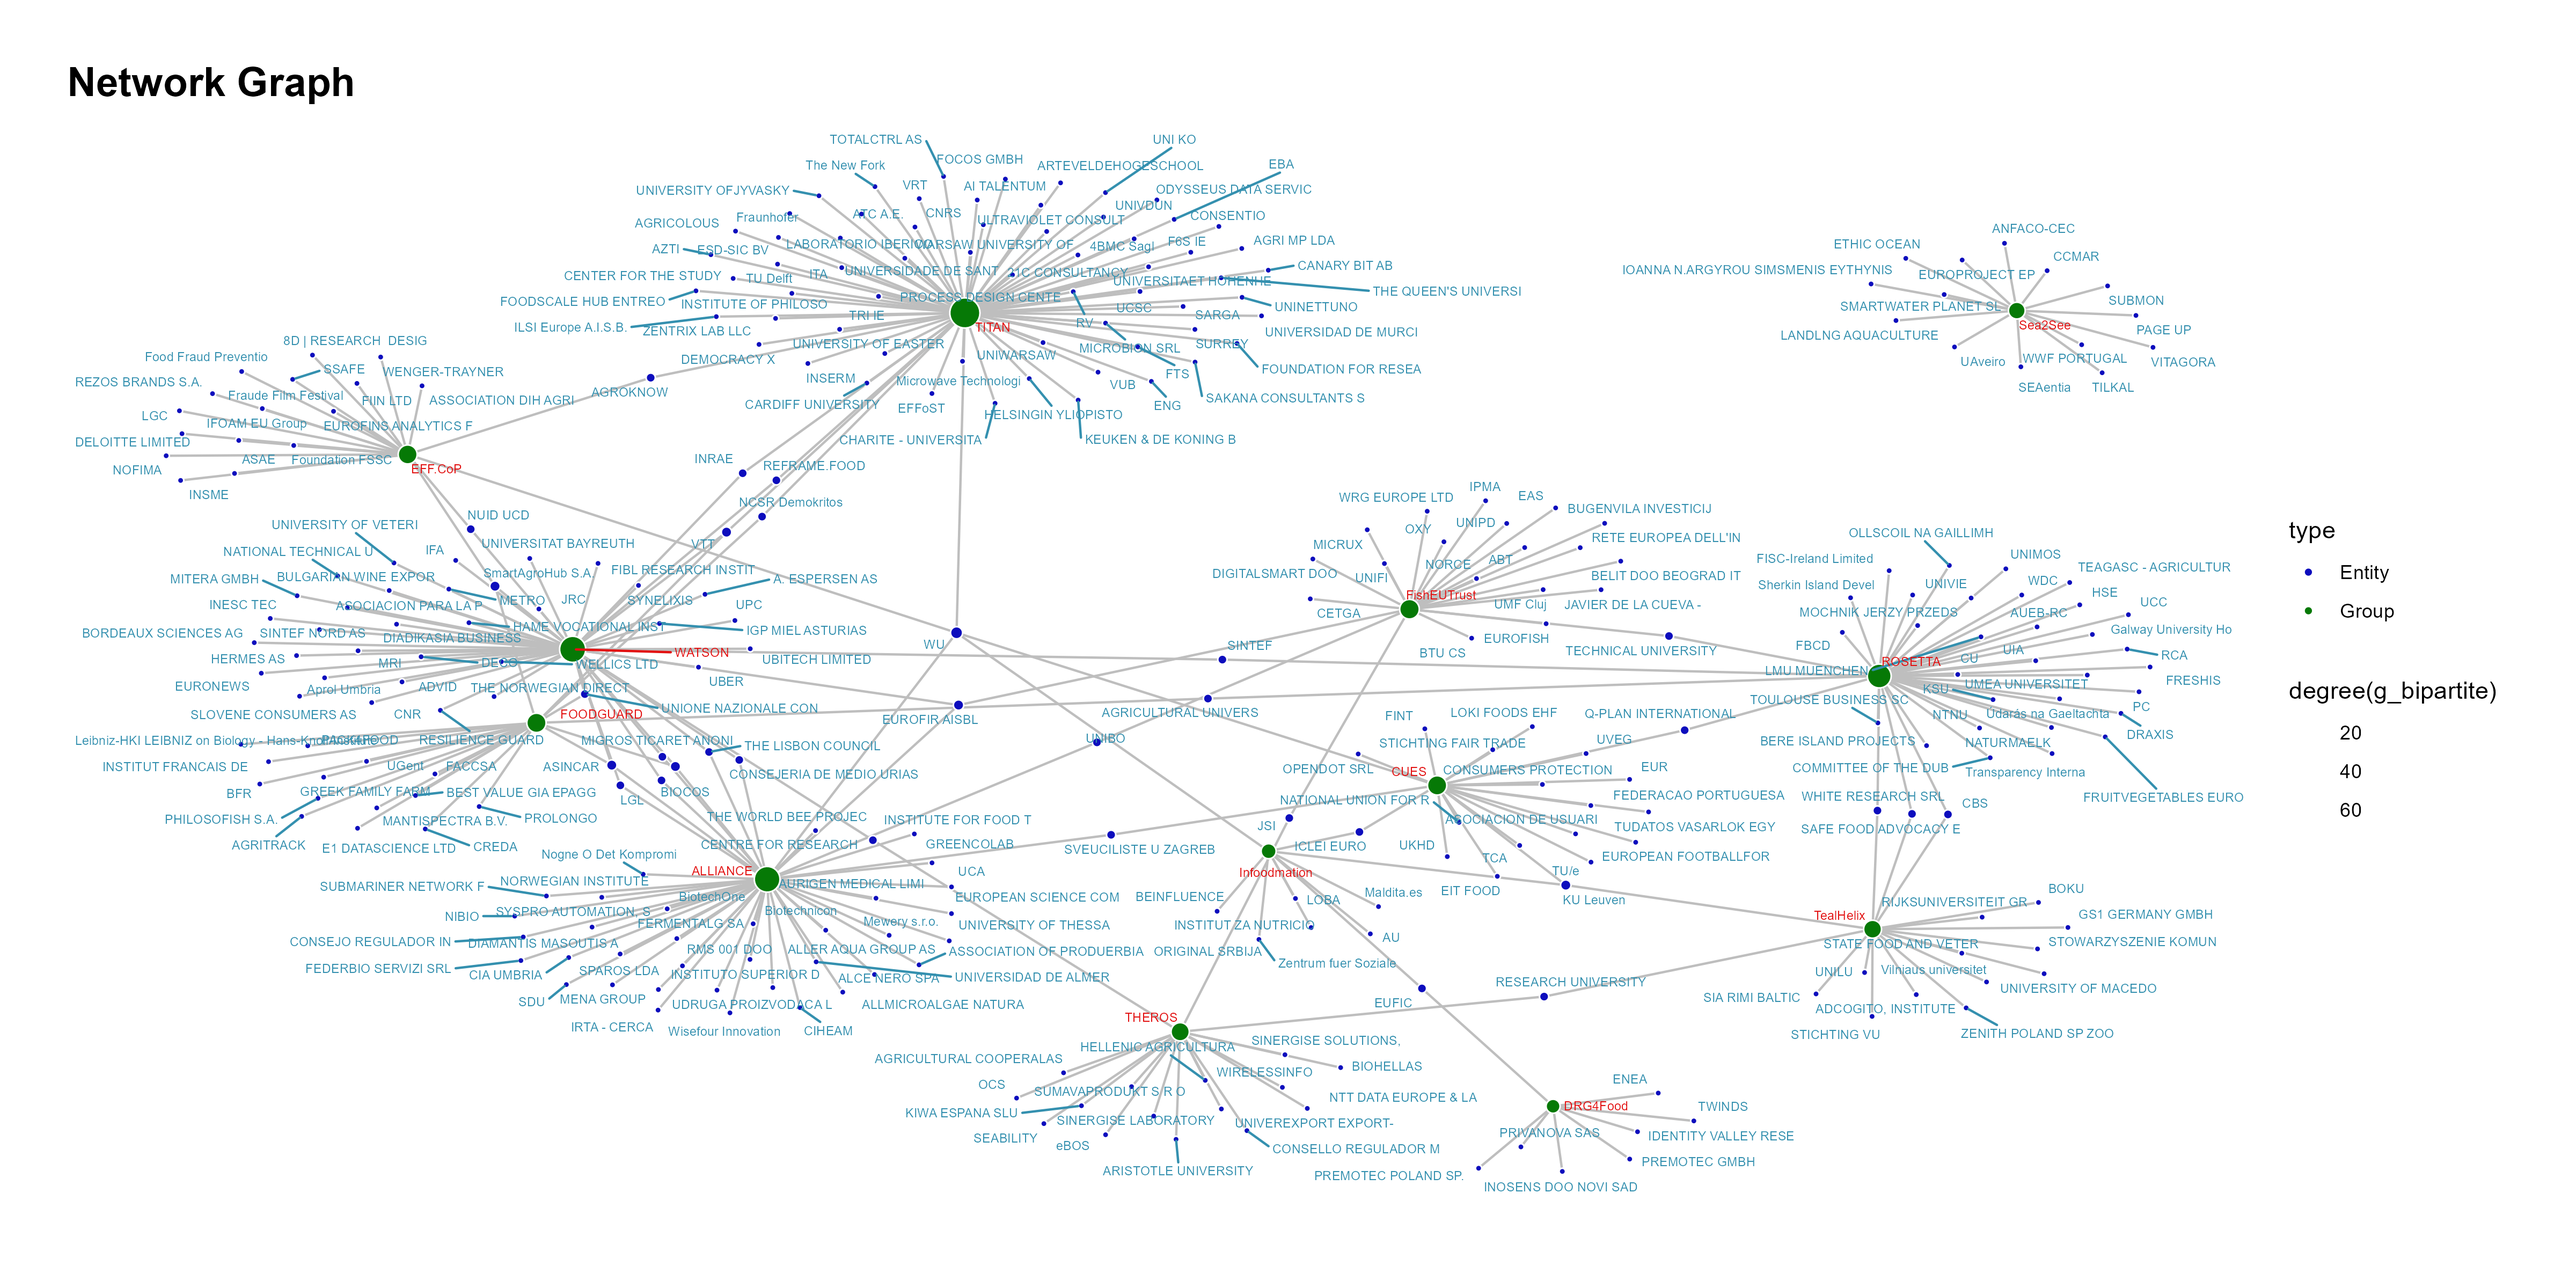
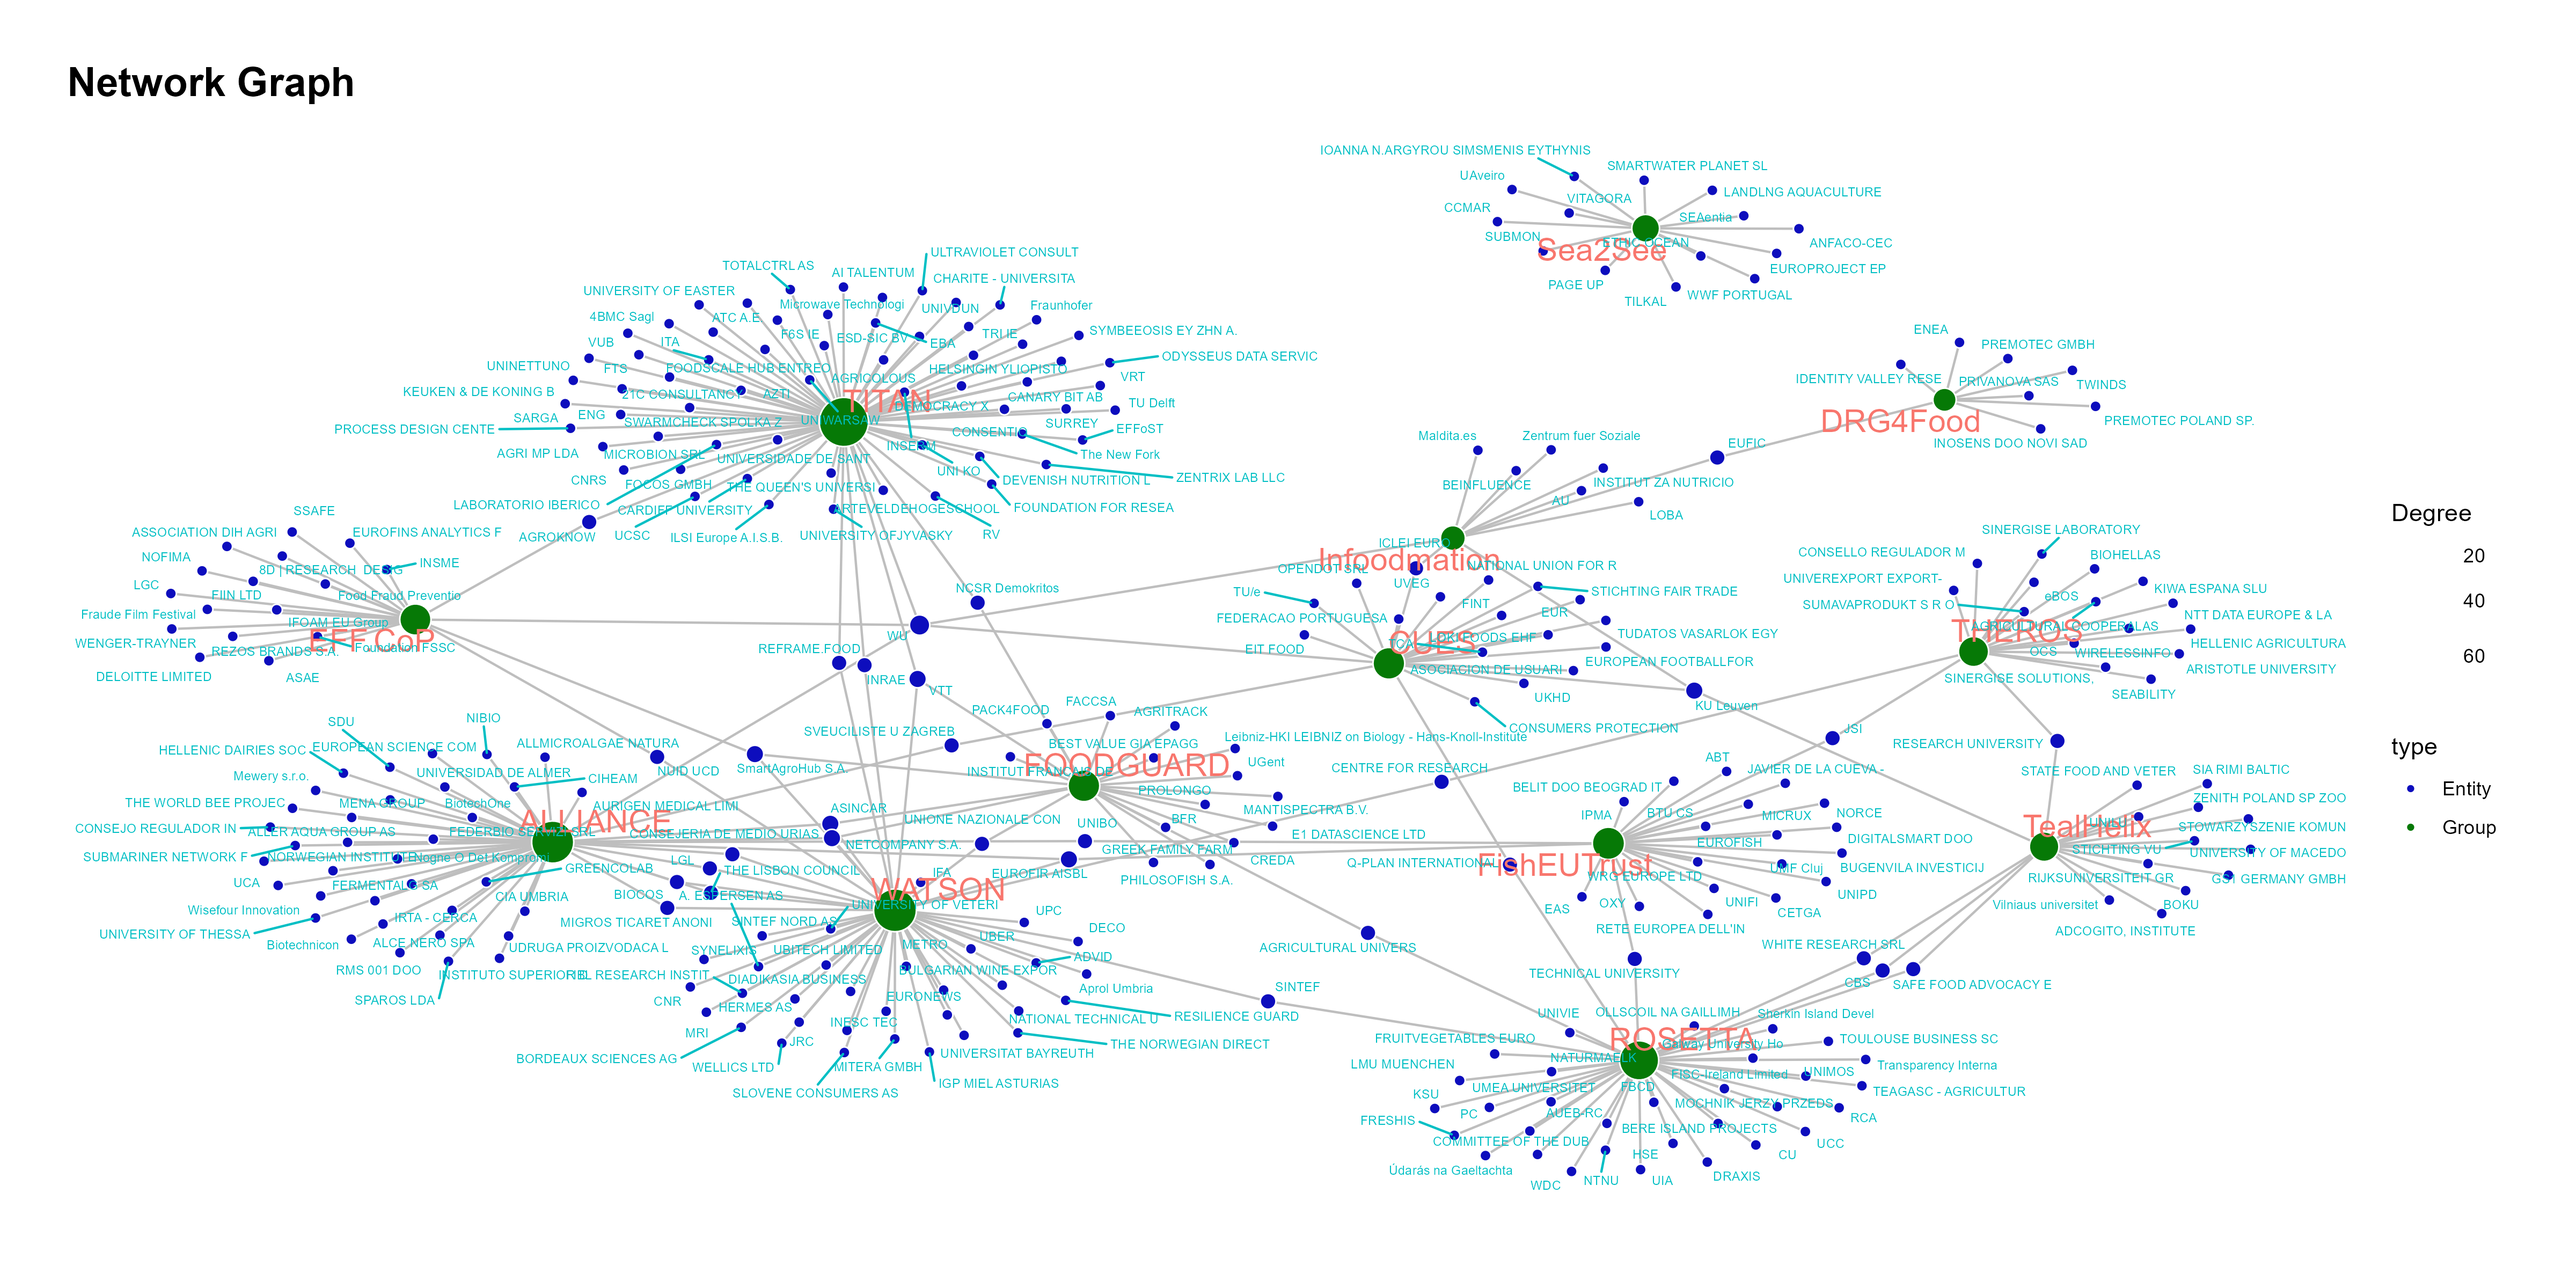
Improved visualisation

diff --git a/README.md b/README.md
@@ -1,3 +1,11 @@
 # SNA-R #
 This repository contains some simple examples of the use of Social Network Analysis using R
 
+# EU Cluster for Food Traceability and Trust #
+The dataset used for this example contains the Horizon funded projects of the EU Cluster for Food Traceability and Trust and their consortiums. The social network analysis shows the interconnection of projects and consortiums.
+
+This information was filtered from a larger dataset containing all Horizon Europe projects. This dataset titled, CORDIS - EU research projects under HORIZON EUROPE (2021-2027), can be found here:
+https://data.europa.eu/data/datasets/cordis-eu-research-projects-under-horizon-europe-2021-2027?locale=en
+
+More information on the cluster can be found at:
+https://theros-project.eu/our-cluster/
